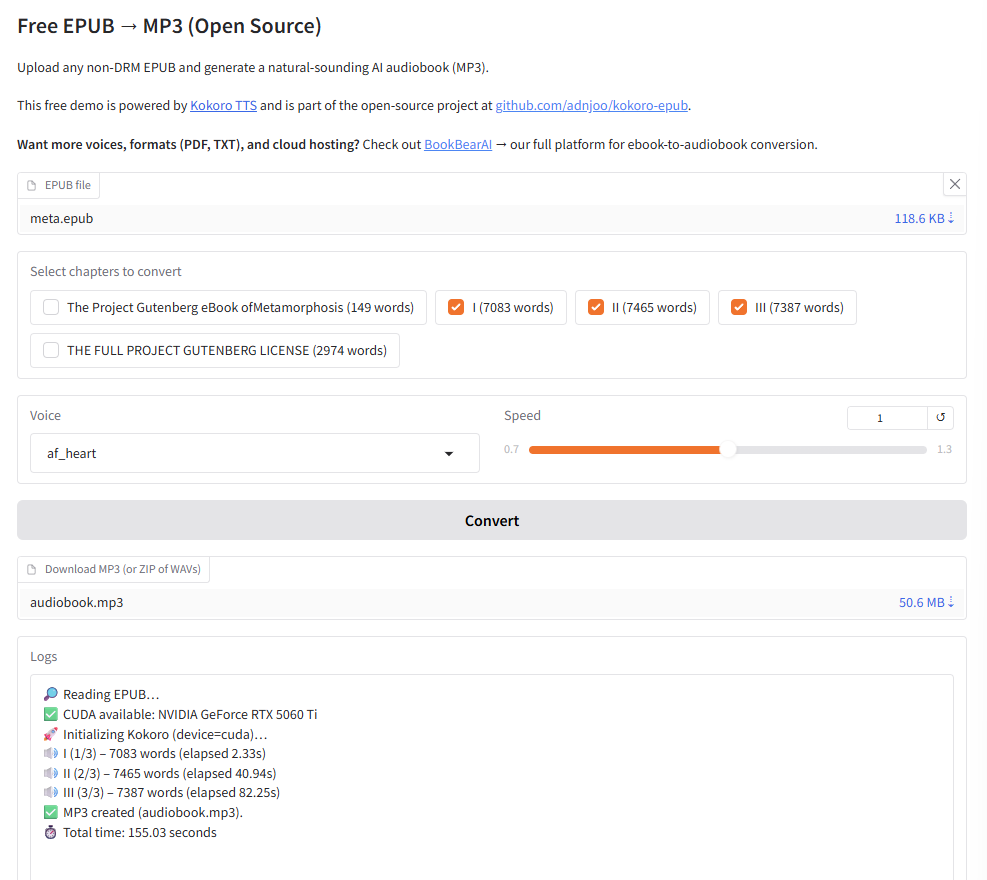
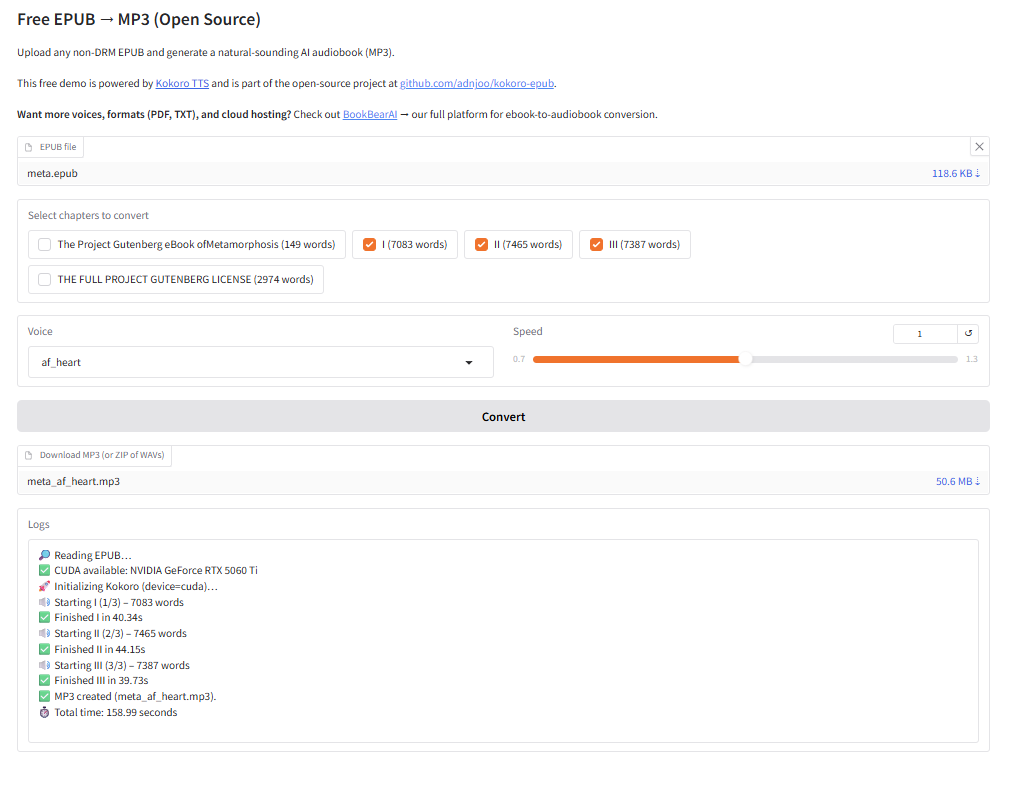
logging (#51)
* time log

* s

diff --git a/app.py b/app.py
@@ -100,9 +100,8 @@ def epub_to_audio(epub_file, voice, speed, selected_titles, progress=gr.Progress
 
         # Generate audio per chapter
         for ci, (title, text) in enumerate(chapters):
-            progress((ci + 1) / total, desc=f"Processing {title} ({ci+1}/{total})")
-            elapsed = time.time() - start_time
-            logs += f"\n🔊 {title} ({ci+1}/{total}) – {len(text.split())} words (elapsed {elapsed:.2f}s)"
+            chapter_start = time.time()
+            logs += f"\n🔊 Starting {title} ({ci+1}/{total}) – {len(text.split())} words"
             yield None, logs
 
             for _, _, audio in pipeline(
@@ -117,9 +116,17 @@ def epub_to_audio(epub_file, voice, speed, selected_titles, progress=gr.Progress
                 wav_paths.append(str(wav_path))
                 part_idx += 1
 
+            # measure chapter time once all splits are written
+            chapter_elapsed = time.time() - chapter_start
+            logs += f"\n✅ Finished {title} in {chapter_elapsed:.2f}s"
+            yield None, logs
+
         # Merge to MP3
         out_dir = Path(workdir)
-        out_mp3 = out_dir / "audiobook.mp3"
+        base_name = Path(epub_file.name).stem  # e.g. "meta"
+        out_name = f"{base_name}_{voice}.mp3"  # e.g. "meta_af_heart.mp3"
+        out_mp3 = out_dir / out_name
+        
         if _merge_to_mp3(wav_paths, str(out_mp3)):
             logs += f"\n✅ MP3 created ({out_mp3.name})."
             total_time = time.time() - start_time
